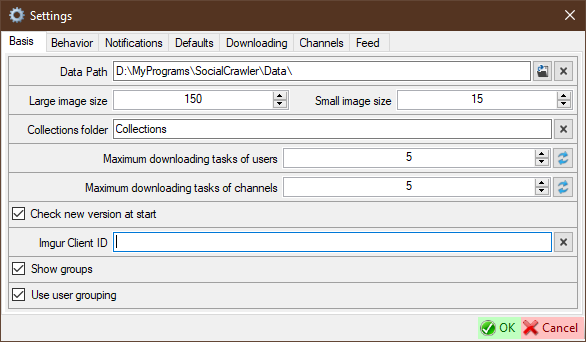
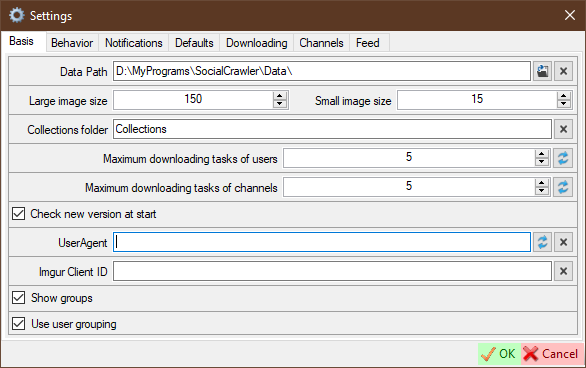
2023.2.5.0
Update to library environment
GlobalSettings: add UserAgent
Gfycat: fix RedGifs urls issue

Changed region(s): [[0.0, 0.0292, 1.0, 0.9942]]

diff --git a/Changelog.md b/Changelog.md
@@ -1,3 +1,12 @@
+# 2023.2.5.0
+
+*2023-02-05*
+
+- Added
+  - The ability to configure UserAgent
+- Fixed
+  - (Issue #101) Failed download Gfycat video in some cases
+
 # 2023.1.27.0
 
 *2023-01-27*
